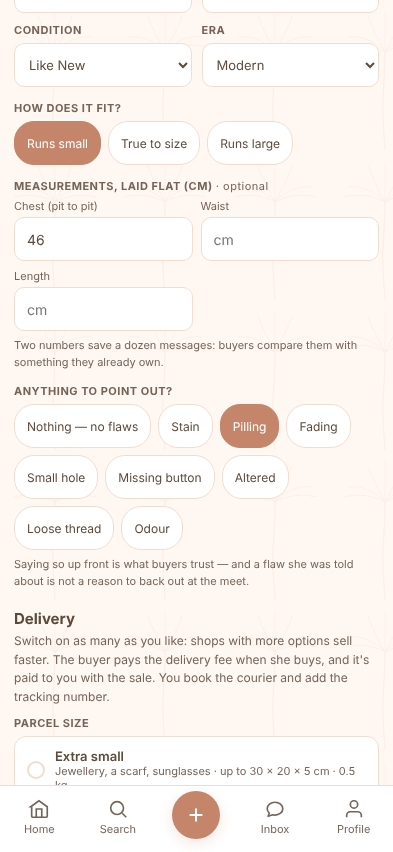
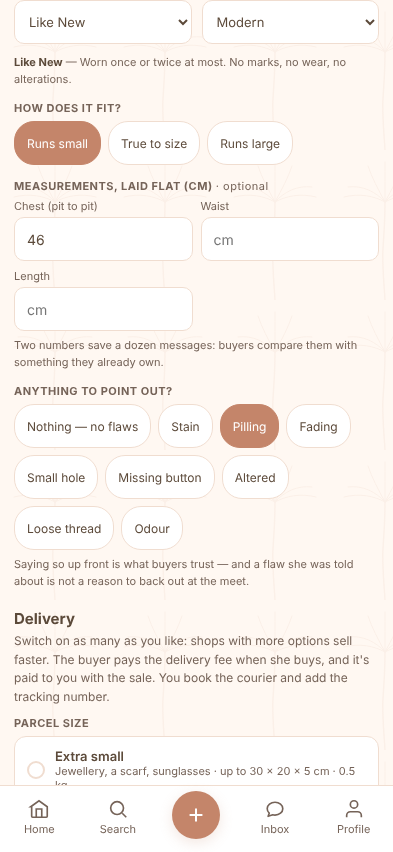
Item page: 4:5 photo, condition grades that mean something, a note on high-value pieces
- The photo is 4:5 (fashion's own shape) instead of near-square: about 58%
  of a phone screen rather than 45%, in line with Vinted and Depop
- Condition grades have written definitions (CONDITION_MEANING, en/ar).
  The Condition chip on the item page opens it; the sell form shows the same
  sentence under the picker, so buyer and seller read one promise
- Pieces from AED 5,000 carry a short 'Before you meet for this one' note:
  lili screens listings but does not authenticate, so ask for the receipt and
  serial/date code and consider an independent service (none named or
  endorsed, as with meeting places)
- The description placeholder is in one language

Claude-Session: https://claude.ai/code/session_01P86DKSDSEYei5Au1GwvQne

diff --git a/app/src/market/ItemModal.jsx b/app/src/market/ItemModal.jsx
@@ -10,7 +10,7 @@ import * as offers from "../data/offers.js";
 import { t, getLang } from "../i18n/t.js";
 import { space } from "../theme/scale.js";
 import { alignEnd, backArrow, money } from "../i18n/direction.js";
-import { C, T, Avatar, Stars, earnedFollowers, ItemPhoto, bandRange, say } from "./shared.jsx";
+import { C, T, Avatar, Stars, earnedFollowers, ItemPhoto, bandRange, say, conditionMeaning, HIGH_VALUE_AED } from "./shared.jsx";
 import { sizeLabel, kindOf, APPROXIMATE_NOTE } from "../sizes/sizeSystem.js";
 import { useSizeSystem } from "../sizes/SizeSystemPicker.jsx";
 import * as remote from "../backend/remote.js";
@@ -80,6 +80,32 @@ export function PriceContext({ item }) {
   );
 }
 
+// ── a note for pieces worth checking ───────────────────────────────────────
+//
+// v2.11.9. On lili a buyer pays in person, and nobody authenticates the piece:
+// screening reads the listing, not the object (trust/authentication.js). Below
+// a few thousand dirhams that is how Gulf resale already works. At Chanel
+// prices it is a buyer being asked to authenticate a bag herself in a café —
+// so the screen says what to ask for before she goes, without naming or
+// endorsing any service, the same way meet/places.js names kinds of place.
+export function HighValueNote({ item }) {
+  const price = Number(item && item.price) || 0;
+  if (price < HIGH_VALUE_AED) return null;
+  const ar = getLang() === "ar";
+  return (
+    <div style={{border:`1px solid ${C.gold}`,background:C.white,borderRadius:12,
+      padding:"10px 12px",marginBottom:14,fontSize:12,color:C.ink,lineHeight:1.55}}>
+      <div style={{fontWeight:700,marginBottom:4}}>
+        {ar ? "قبل أن تلتقي من أجل هذه القطعة" : "Before you meet for this one"}</div>
+      <div style={{color:C.inkLt}}>
+        {ar
+          ? "lili تراجع الإعلانات لكنها لا تتحقق من أصالة القطع. اطلبي من البائعة صورة الإيصال والرقم التسلسلي أو رمز التاريخ قبل اللقاء، وفكّري في خدمة تحقق مستقلة — فحص بالصور عبر الإنترنت أو تقييم في متجر متخصص."
+          : "lili screens listings but does not authenticate pieces. Ask the seller for the receipt and the serial or date code before you meet, and consider an independent authentication service — an online photo check or an in-store appraisal."}
+      </div>
+    </div>
+  );
+}
+
 // ── item detail modal ──────────────────────────────────────────────────────
 // Whether paying in the app is switched on. Two switches, both required: the
 // build's PAYMENTS_LIVE (so every policy and screen describing money was
@@ -135,6 +161,8 @@ export function ItemModal({item,shop,items=[],onOpenItem,onSave,onClose,onOffer,
   const sizeSys = useSizeSystem();
   const payOn = usePaymentsOn();
   const [buying, setBuying] = useState(false);
+  const [showGrade, setShowGrade] = useState(false);
+  useEffect(() => { setShowGrade(false); }, [item && item.id]);
   if(!item) return null;
   const canBuy = payOn && !item.reserved && (!item.status || item.status === "live");
   return (
@@ -168,16 +196,30 @@ export function ItemModal({item,shop,items=[],onOpenItem,onSave,onClose,onOffer,
           </div>
 
           <PriceContext item={item}/>
+          <HighValueNote item={item}/>
 
-          {/* tags */}
-          <div style={{display:"flex",gap:7,marginBottom:14,flexWrap:"wrap"}}>
-            {[["Brand",item.brand],["Condition",item.condition],["Size",item.size ? sizeLabel(item.size, sizeSys, { both: true }) : ""],["Era",item.era]].map(([l,v])=>(
-              <div key={l} style={{background:C.sand,borderRadius:8,padding:"5px 10px"}}>
-                <div style={{fontSize:11,color:C.inkLt,fontWeight:700,letterSpacing:0.5}}>{l.toUpperCase()}</div>
-                <div style={{fontSize:11,color:C.ink,fontWeight:600}}>{v}</div>
-              </div>
-            ))}
+          {/* tags — Condition opens what the grade means */}
+          <div style={{display:"flex",gap:7,marginBottom:showGrade?6:14,flexWrap:"wrap"}}>
+            {[["Brand",item.brand],["Condition",item.condition],["Size",item.size ? sizeLabel(item.size, sizeSys, { both: true }) : ""],["Era",item.era]].map(([l,v])=>{
+              const tappable = l === "Condition" && !!conditionMeaning(v);
+              const Tag = tappable ? "button" : "div";
+              return (
+                <Tag key={l} {...(tappable ? { onClick: () => setShowGrade(g => !g), "aria-expanded": showGrade,
+                    "aria-label": `Condition: ${v}. What this means` } : {})}
+                  style={{background:C.sand,borderRadius:8,padding:"5px 10px",border:tappable?`1px solid ${C.border}`:"none",
+                    textAlign:"start",cursor:tappable?"pointer":"default",minHeight:tappable?44:undefined,fontFamily:"inherit"}}>
+                  <div style={{fontSize:11,color:C.inkLt,fontWeight:700,letterSpacing:0.5}}>{l.toUpperCase()}{tappable ? " ⓘ" : ""}</div>
+                  <div style={{fontSize:11,color:C.ink,fontWeight:600}}>{v}</div>
+                </Tag>
+              );
+            })}
           </div>
+          {showGrade && (
+            <div style={{fontSize:12,color:C.ink,lineHeight:1.55,background:C.white,border:`1px solid ${C.border}`,
+              borderRadius:10,padding:"8px 12px",marginBottom:14}}>
+              <b>{item.condition}</b> — {conditionMeaning(item.condition)}
+            </div>
+          )}
           {sizeSys !== "INTL" && kindOf(item.size) && (
             <div style={{fontSize:11,color:C.inkLt,margin:"-8px 0 14px"}}>
               Listed as {item.size}. {APPROXIMATE_NOTE}
@@ -360,7 +402,7 @@ export function ItemGallery({item, onClose, onSave}) {
     width:40,height:40,cursor:"pointer",backdropFilter:"blur(4px)",
     display:"flex",alignItems:"center",justifyContent:"center"};
   return (
-    <div className="lili-ratio-105" style={{overflow:"hidden",
+    <div className="lili-ratio-45" style={{overflow:"hidden",
       background:`linear-gradient(145deg,${item.color},${item.color}99)`}}>
       {photos.length > 1 ? (
         <div className="lili-fill" onScroll={onScroll} aria-label={`${photos.length} photos`}

diff --git a/app/src/market/shared.jsx b/app/src/market/shared.jsx
@@ -211,6 +211,29 @@ export const categoryLabel = (c) => (getLang() === "ar" ? (CATS_AR[c] || c) : c)
 
 export const CATS_AR = {All:"الكل",Luxury:"فاخر",Bags:"حقائب",Dresses:"فساتين",Shoes:"أحذية",Abayas:"عبايات",Tops:"توبات",Jackets:"جاكيتات",Skirts:"تنانير"};
 export const CONDITIONS = ["Like New","Excellent","Good","Fair"];
+
+// What each grade MEANS, shown to the seller when she picks it and to the
+// buyer when she taps it — the same words on both sides, so "Excellent" is a
+// promise both of them read rather than a word each of them guesses at.
+// Every peer that grades condition defines its grades (Vinted, Vestiaire,
+// The RealReal); an undefined grade is the commonest dispute at a handover.
+export const CONDITION_MEANING = {
+  "Like New":  { en: "Worn once or twice at most. No marks, no wear, no alterations.",
+                 ar: "لُبست مرة أو مرتين على الأكثر. بلا علامات أو آثار استعمال أو تعديلات." },
+  "Excellent": { en: "Worn with care. No visible wear beyond anything listed under flaws.",
+                 ar: "لُبست بعناية. لا آثار استعمال ظاهرة غير ما ذُكر في العيوب." },
+  "Good":      { en: "Light, visible wear from normal use — described under flaws.",
+                 ar: "آثار استعمال خفيفة وظاهرة — موصوفة في العيوب." },
+  "Fair":      { en: "Clear wear or a repairable flaw, described under flaws and priced for it.",
+                 ar: "آثار استعمال واضحة أو عيب قابل للإصلاح، موصوف في العيوب والسعر يراعيه." },
+};
+export const conditionMeaning = (c) => {
+  const m = CONDITION_MEANING[c];
+  return m ? (getLang() === "ar" ? m.ar : m.en) : "";
+};
+
+// Above this, the item page adds a short note on checking the piece itself.
+export const HIGH_VALUE_AED = 5000;
 export const SIZES = ["XS","S","M","L","XL","OS","35","36","37","38","39","40","41","42"];
 export const ITEM_CATS = ["Luxury","Bags","Dresses","Shoes","Tops","Bottoms","Abayas","Accessories"];
 // The placeholder a piece gets when it has no photograph yet. Every listing

diff --git a/app/src/pages/SellPage.jsx b/app/src/pages/SellPage.jsx
@@ -19,7 +19,7 @@ import { HOW_MONEY_WORKS } from "../compliance/sellerRules.js";
 import { t, getLang } from "../i18n/t.js";
 import { space } from "../theme/scale.js";
 import { alignStart } from "../i18n/direction.js";
-import { C, Lili, CONDITIONS, SIZES, ITEM_CATS, ICON_FOR_CAT, APPROVED_BRANDS, BRANDS, ERAS, TopBar } from "../market/shared.jsx";
+import { C, Lili, CONDITIONS, SIZES, ITEM_CATS, ICON_FOR_CAT, APPROVED_BRANDS, BRANDS, ERAS, TopBar, conditionMeaning } from "../market/shared.jsx";
 import { PayoutBox } from "../market/OfferModal.jsx";
 import { sizeLabel } from "../sizes/sizeSystem.js";
 import { useSizeSystem, SizeSystemPicker } from "../sizes/SizeSystemPicker.jsx";
@@ -650,12 +650,17 @@ export function SellPage({myShop,onCreateShop,onAddItem,setTab,onListed}) {
                 </div>
               ))}
             </div>
+            {/* The grade's meaning, in the words the buyer will read when she
+                taps it on the listing — one definition, both sides. */}
+            <div style={{fontSize:11,color:C.inkLt,lineHeight:1.5,marginTop:-4}}>
+              <b style={{color:C.ink}}>{form.condition}</b> — {conditionMeaning(form.condition)}
+            </div>
             <FitAndFlaws form={form} setForm={setForm}/>
             <DeliverySettings form={form} setForm={setForm}/>
             <div>
               <label style={{fontSize:11,fontWeight:700,color:C.inkLt,letterSpacing:0.5,textTransform:"uppercase",display:"block",marginBottom:6}}>{t("description")}</label>
               <textarea value={form.desc} onChange={e=>setForm({...form,desc:e.target.value})}
-                placeholder="Describe your piece — condition details, why you loved it, any wear... وصف القطعة"
+                placeholder={getLang()==="ar" ? "صفي قطعتك — حالتها، لماذا أحببتِها، وأي آثار استعمال..." : "Describe your piece — condition details, why you loved it, any wear..."}
                 rows={3} style={{width:"100%",padding:"12px 12px",borderRadius:10,border:`1px solid ${C.border}`,
                   fontSize:13,outline:"none",resize:"vertical",boxSizing:"border-box",fontFamily:"inherit"}}/>
             </div>

diff --git a/app/src/index.css b/app/src/index.css
@@ -232,11 +232,16 @@ select:focus-visible {
    the whole argument for these living in the stylesheet. */
 .lili-ratio-105 { width: 100%; padding-top: 95.24%; position: relative; }   /* 1 / 1.05 */
 .lili-ratio-1   { width: 100%; padding-top: 100%; position: relative; }
+/* 4:5, the fashion photograph's own shape, for the item page (v2.11.9). The
+   near-square 1:1.05 gave the photo about 45% of the screen; resale sells on
+   the photograph, and the peers give it 60-70%. */
+.lili-ratio-45  { width: 100%; padding-top: 125%; position: relative; }
 /* Only the media layer fills the box, as with .lili-ratio-tile. `> *` pinned
    every child to all four edges, so on the item screen the add-to-bag button
    (right: 14px, but also left: 0) landed on top of the back button and the
    photo dots (bottom: 12px, but also top: 0) floated above the photo. */
 .lili-ratio-105 > img, .lili-ratio-105 > .lili-shimmer, .lili-ratio-105 > .lili-fill,
+.lili-ratio-45 > img, .lili-ratio-45 > .lili-shimmer, .lili-ratio-45 > .lili-fill,
 .lili-ratio-1 > img, .lili-ratio-1 > .lili-shimmer, .lili-ratio-1 > .lili-fill {
   position: absolute; top: 0; right: 0; bottom: 0; left: 0; width: 100%; height: 100%;
 }
